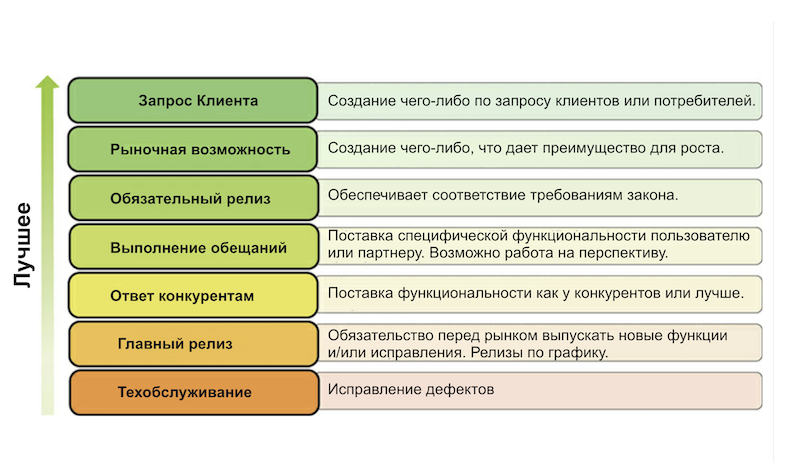
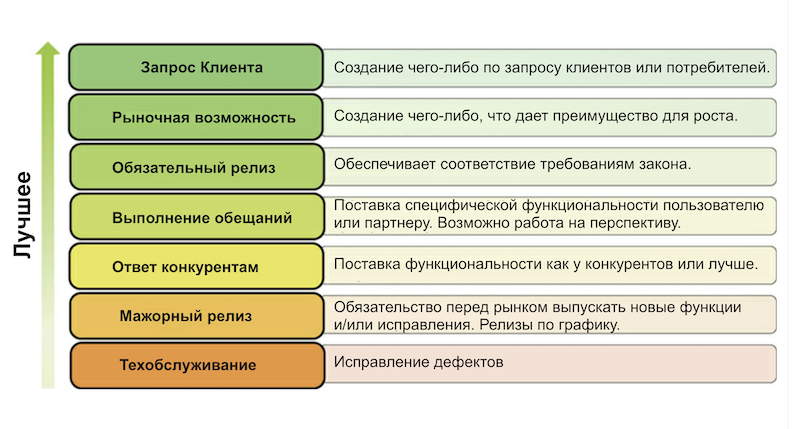
редактура 8 главы, рисунок 8-2

diff --git a/Text/8.html b/Text/8.html
@@ -107,25 +107,65 @@
 
                 
                    
-                    <p>Чем дальше по списку вы идете, тем менее гибкими вы становитесь в плане сроков освоения рынка, инноваций и удовлетворенности клиентов.</p>
-                    <p>Главные релизы определяются зачастую произвольно, основаниями, противоречащими самому представлению о продукте. Может складываться ситуация, когда осуществить релиз долго и дорого. Также может быть, вы не хотите рисковать, осуществляя релиз будучи занятым критически важными бизнес-задачами. А может быть вы просто следуете условиям какого-то контракта.</p>
+                    <p>Чем ниже по списку вы спускаетесь, тем менее гибкими вы становитесь в таких параметрах, как: время выхода на рынок, инноваций и удовлетворенность клиентов.</p>
+                    <p>Мажорные релизы часто недостаточно продуманы и противоречат продуктовому мышлению. Может сложиться ситуация, когда осуществить релиз долго и дорого. Также может быть, вы не хотите рисковать, выпуская релиз во время других, критически важных бизнес-задач. А может быть вы просто следуете условиям какого-то контракта.</p>
                     <p>Предлагаем рассмотреть это подробнее.</p>   
         </section>      
                    
         <section class="chapter_8_part_3">
-            <h4>Стратегия Релиза</h4>
-            <p>Как часто вы должны делать релизы? Ответ на этот вопрос часто определяется причинами которые, казалось бы, находятся вне зоны вашего контроля (например, процесс, технология, правила, бизнес-потребности).</p>
+            <h3>Стратегия Релиза</h3>
+            <p>Как часто вы должны делать релизы? Часто релиз определяется причинами которые находятся вне зоны вашего контроля (процесс, технология, регуляторные правила, бизнес-потребности).</p>
 
-            <p>В таблице 8-1 показано, как подход определяет тип выпуска. В последующих разделах мы их расширим.</p>
+            <p>В таблице 8-1 показано, как подход определяет тип релиза. В последующих разделах мы поговорим об этом подробнее.</p>
 
-            <p>Таблица 8-1. Сопоставление подходов к типам релизов. Подход Обычно используемый термин подхода Релиз Валидация (подтверждение) Поэтапный Вотерфол (водопад) Основной релиз (6-12 месяцев) Единственный в самом конце Поэтапный с гибкими (agile) разработками Скрам-Водопад (или гибридный) Основной релиз (6-12 месяцев) Единственный в самом конце Скрам без частичных релизов до установленнойдаты Скрам Основной релиз (6-12 месяцев) Единственный после обозначенной даты релиза Скрам с релизами в конце спринта Скрам Незначительный релиз (каждые 1-3 месяца) В конце спринта Скрам с множественными релизами в ходеспринта Скрам Функциональный релиз (по запросу) По мере готовности функции</p>
+            <table class="borderfortable">
+                <tbody>
+                    <tr>
+                        <th>Подход</th>
+                        <th>Общепринятый Термин</th>
+                        <th>Релиз</th>
+                        <th>Проверка</th>
+                    </tr>
+                    <tr>
+                        <td>Поэтапный</td>
+                        <td>Водопад</td>
+                        <td>Мажорный (каждые 6-12 месяцев)</td>
+                        <td>Один раз в самом конце</td>
+                    </tr>
+                    <tr>
+                        <td>Поэтапный с гибкой разработкой</td>
+                        <td>Водо-Скрам-Пад</td>
+                        <td>Мажорный (каждые 6-12 месяцев)</td>
+                        <td>Один раз в самом конце</td>
+                    </tr>
+                    <tr>
+                        <td>Скрам: релиз Приращения в запланированное время</td>
+                        <td>Скрам</td>
+                        <td>Мажорные (каждые 6-12 месяцев)</td>
+                        <td>Один раз после релиза</td>
+                    </tr>
+                    <tr>
+                        <td>Скрам: релиз в конце каждого Спринта</td>
+                        <td>Скрам</td>
+                        <td>Минорные (каждые 1-3 месяца)</td>
+                        <td>В рамках Спринта</td>
+                    </tr>
+                    <tr>
+                        <td>Скрам: множество релизов внутри Спринта</td>
+                        <td>Скрам</td>
+                        <td>Функциональные (по запросу)</td>
+                        <td>Как только функция готова</td>
+                    </tr>
+                </tbody>
+            </table>
         
             <section class="chapter_8_part_3-1">
-            <h5>Основные Релизы</h5>
+            <h5>Мажорные Релизы</h5>
 
-            <p>Модель Вотерфол (водопад), очевидно, наиболее применима в подходе с основным релизом. Однако, Скрам также не имеет иммунитета от применения такого подхода. Многие команды Скрам могут работать в течение шести и более месяцев без фактического релиза в действующий продукт. Вероятно, такие команды используют Скрам с приоритетом проектного мышления над продуктовым.</p>
+            <p>Вотерфол (водопад) соответствует мажорным релизам. Но у Скрама тоже нет иммунитета от мажорных релизов. Многие Скрам Команды работают шесть и больше месяцев без фактического релиза действующего продукта. Похоже у таких команд приоритет проектного мышления над продуктовым.</p>
 
-            <p>Основные релизы (см. Рисунок 8-2) по-прежнему в приоритете у современных предприятий. Применительно к Вотерфол подходу, основной релиз является результатом длительной последовательной поэтапной разработки продукта. Каждый этап описывает определенный вид работы над проектом, например такие как планирование, анализ и проектирование. Это определено линейным мышлением, которое хорошо работает при построении простых и понятных продуктов. Тем не менее, в процессе работы над сложными продуктами вы не можете заранее определиться с наиболее верным решением, так что пакетная работа над продуктом со значительными инвестициями на каждом этапе с тем, чтобы кульминацией стал один большой релиз (большое предположение) – чрезвычайно рискованное мероприятие.</p>
+            <p>Мажорные релизы (см. Рисунок 8-2) по-прежнему широко распространены на современных предприятиях. При Вотерфоле, мажорный релиз — результат длительного последовательного поэтапного подхода. Каждый этап посвящен определенному виду работы над проектом, например: планирование, анализ и проектирование. Это определеное, линейное мышлением, которое может работать при создании простых и понятных продуктов. Когда вы работаете с запутанными (complex) продуктами  вы не можете заранее знать верные решения.</p>
+            <p> Если вы создаете продукт в запутанной области, поэтапная разработка становится чрезвычайно рискованным предприятием. Один большой релиз становится кульминацией и итогом огромных инвестиций.</p>
 
             <p>Время План Анализ Дизайн Реализация Тест Релиз Планирование Реализация Этап Документы на бумаге Выпущенный Продукт</p>
 

diff --git a/css/style.css b/css/style.css
@@ -23,34 +23,38 @@ body {
     color: #333;
     background-color: #fff;
     }
-.attention {
-text-align: left;
-}
 
-header {
+    .attention {
+    text-align: left;
+    }
+
+    header {
     text-align: center;
-}
+    }
 
-img {
+    img {
     max-width: 70%;
-}
-.head {
+    }
+
+    .head {
     text-align: center;
     margin: 5% 0 2% 0;
-}
-p {
+    }
+
+    p {
     margin-bottom: 2%;
     text-indent: 15px;
-}
+    }
 
-.center {
+    .center {
     text-align:center;
-}
-.quote_from_diffrent_book {
+    }
+
+    .quote_from_diffrent_book {
     text-align: right;
     font-style: italic;
-    
-}
+    }
+
     .quote {
     border: 1px solid black;
     padding: 5px;
@@ -58,6 +62,7 @@ p {
     font-size: 15px;
     margin: 5% 0 7% 0;
     }
+
     .book {
         max-width: 70%;
         margin: 0 10% 0 10%;
@@ -65,11 +70,14 @@ p {
     .img {
        max-width: 100%;
     }
+
+
     table {
     padding: 20px; 
     margin: 20px;
     font-size: 13px;
-    border-spacing: 1px 15px;
+    border-spacing: 1px 15px solid grey;
+    vertical-align: middle;
     }
     
     td:first-child {
@@ -78,32 +86,44 @@ p {
     
     .borderfortable {
     border: 1px solid grey;
-    padding: 10px 15px;}
+    padding: 10px 15px;
+    }
     
+    td {
+        white-space: normal;
+        word-wrap: break-word;
+        }
     
+    th {
+        border-bottom: 1px solid grey;
+        
+       
+
+    }
+        
     .col {
     text-align: center;
     }
+
     .quotefrombook {
     background-color: #e6e6e6;
     }
+
     h2 {font-size: 30px;}
     h3 {font-size: 22px;}
-    h4 { font-size: 19px; font-weight: bold; }
+    h4 
+        {font-size: 19px; 
+        font-weight: bold;}
     h5 {font-size: 16px;}
     
     .col {
     text-align: left;}
-    
-    td {
-    overflow: hidden;
-    white-space: nowrap;
-    text-overflow: ellipsis;
-    }
+
     .image {
     box-align: center;
     width: 70%;
     }
+
     .link_to_pspo {
         font-size: 20px;
         font-style: bold;
